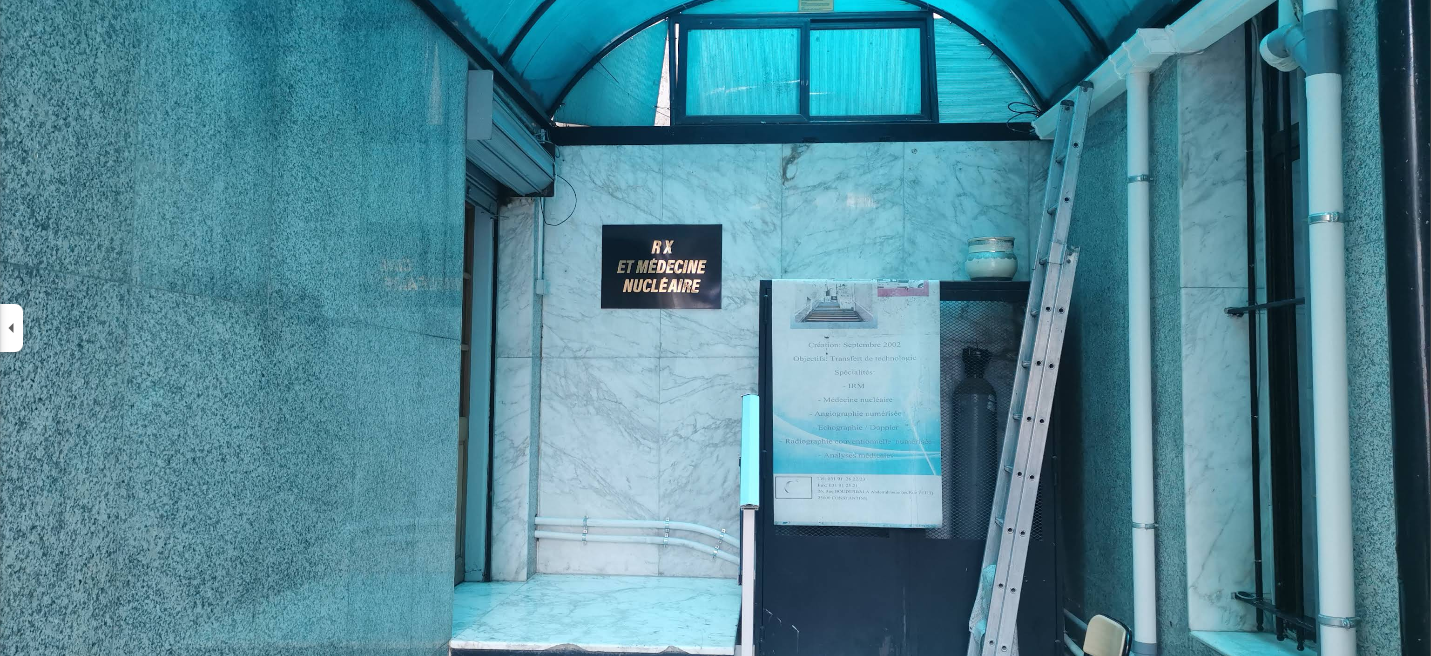
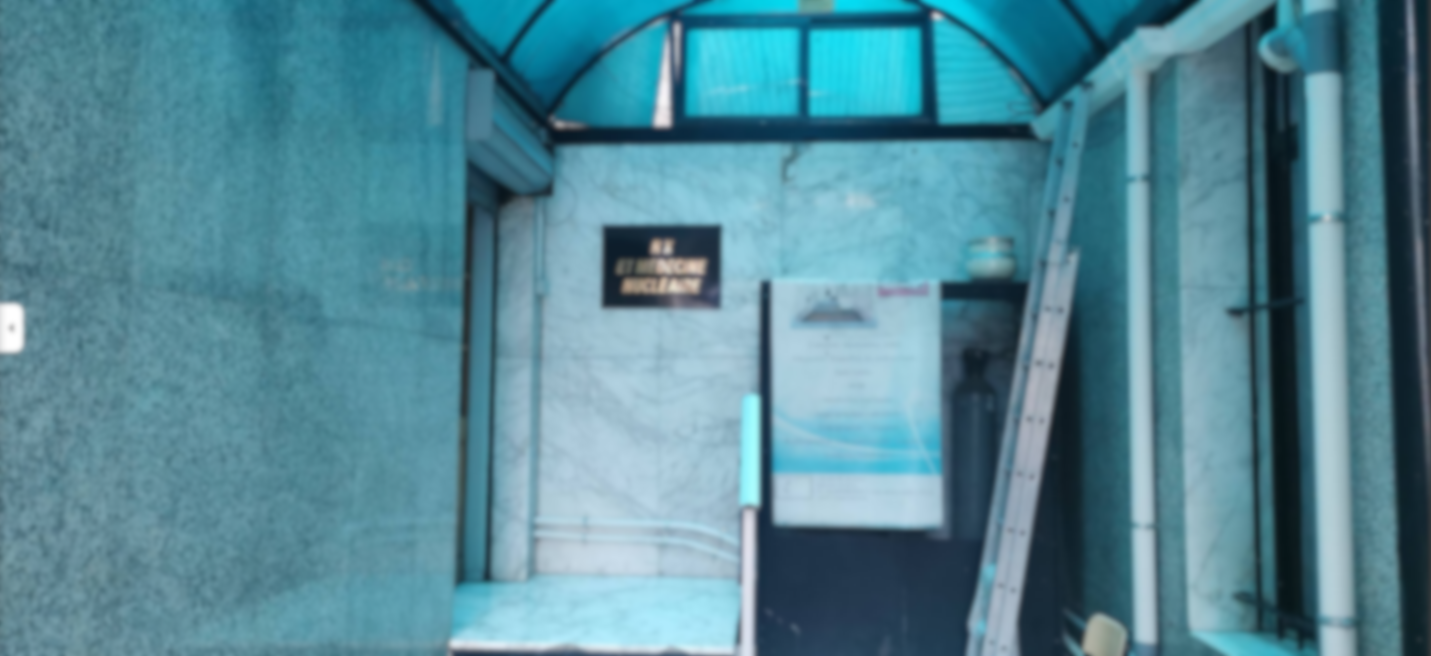
Fix French character encoding and improve nav layout

diff --git a/index.html b/index.html
@@ -22,14 +22,19 @@
         <nav id="nav" class="nav">
           <a href="#services">Services</a>
           <a href="#advantages">Avantages</a>
-          <a href="#departments">Départements</a>
+          <a href="#map">Map</a>
+          <a href="#departments">D&eacute;partements</a>
           <a href="#contact">Contact</a>
+          <a class="call-link" href="tel:0560586830">
+            <img src="phone.png" alt="" class="contact-icon" aria-hidden="true" />
+            <span>Appeler</span>
+          </a>
+          <a class="wa-link" href="https://wa.me/213560024123" target="_blank" rel="noopener noreferrer">
+            <img src="whatsupp.png" alt="" class="contact-icon" aria-hidden="true" />
+            <span>WhatsApp</span>
+          </a>
         </nav>
-        <div class="nav-cta">
-          <a class="call-link" href="tel:0560586830">📞 Appeler</a>
-          <a class="wa-link" href="https://wa.me/213560024123" target="_blank" rel="noopener noreferrer">🟢 WhatsApp</a>
-        </div>
-        <button id="menuBtn" class="menu-btn" aria-label="Open menu">☰</button>
+        <button id="menuBtn" class="menu-btn" aria-label="Open menu">&#9776;</button>
       </div>
     </header>
 
@@ -41,18 +46,18 @@
               <span class="hero-logo-mark">
                 <img src="clinic-logo.png" alt="Logo Centre EL HOCEINI" class="hero-logo" />
               </span>
-              <p>Votre santé, notre priorité</p>
+              <p>Votre sant&eacute;, notre priorit&eacute;</p>
             </div>
-            <h1 class="animate-rise-up delay-200">Centre de Diagnostic <span>EL HOCEINI</span></h1>
-            <p class="subtitle animate-rise-up delay-300">IRM, Scanner, Scintigraphie et Analyses Médicales à Constantine</p>
+            <h1 class="animate-rise-up delay-200">Centre de Diagnostic<br /><span>EL HOCEINI</span></h1>
+            <p class="subtitle animate-rise-up delay-300">IRM, Scanner, Scintigraphie et Analyses M&eacute;dicales &agrave; Constantine</p>
             <div class="hero-actions animate-rise-up delay-400">
               <a class="btn btn-green" href="#contact">Prendre Rendez-vous</a>
               <a class="btn btn-outline" href="tel:0560586830">Appeler Maintenant</a>
             </div>
             <div class="chips animate-rise-up delay-500">
-              <span>Équipements modernes</span>
-              <span>Résultats rapides</span>
-              <span>Équipe expérimentée</span>
+              <span>&Eacute;quipements modernes</span>
+              <span>R&eacute;sultats rapides</span>
+              <span>&Eacute;quipe exp&eacute;riment&eacute;e</span>
             </div>
           </div>
         </div>
@@ -61,12 +66,12 @@
       <section id="services" class="section services-section">
         <div class="container">
           <h2>Nos Services</h2>
-          <p class="section-sub">Des équipements de dernière génération pour des diagnostics précis et fiables</p>
+          <p class="section-sub">Des &eacute;quipements de derni&egrave;re g&eacute;n&eacute;ration pour des diagnostics pr&eacute;cis et fiables</p>
           <div class="cards four">
             <article class="card service-card">
               <div class="service-icon service-blue"><i class="fa-solid fa-brain"></i></div>
               <h3>IRM</h3>
-              <p>Cardiologie, Angio-IRM, Sein,<br />Cérébrale...</p>
+              <p>Cardiologie, Angio-IRM, Sein,<br />C&eacute;r&eacute;brale...</p>
             </article>
             <article class="card service-card">
               <div class="service-icon service-green"><i class="fa-solid fa-magnifying-glass"></i></div>
@@ -81,7 +86,7 @@
             <article class="card service-card">
               <div class="service-icon service-green"><i class="fa-solid fa-vial"></i></div>
               <h3>Analyses</h3>
-              <p>Hématologie, Biochimie,<br />Immunologie...</p>
+              <p>H&eacute;matologie, Biochimie,<br />Immunologie...</p>
             </article>
           </div>
         </div>
@@ -91,24 +96,24 @@
         <div class="container">
           <h2>Pourquoi Nous Choisir ?</h2>
           <p class="section-sub advantages-sub">
-            Votre santé est notre priorité. Nous combinons expertise et technologie pour vous
+            Votre sant&eacute; est notre priorit&eacute;. Nous combinons expertise et technologie pour vous
             offrir le meilleur service
           </p>
           <div class="cards three">
             <article class="card advantage-card">
               <div class="adv-icon"><i class="fa-regular fa-circle-check"></i></div>
-              <h3>Équipements modernes</h3>
-              <p>Technologies de pointe pour des diagnostics précis et fiables</p>
+              <h3>&Eacute;quipements modernes</h3>
+              <p>Technologies de pointe pour des diagnostics pr&eacute;cis et fiables</p>
             </article>
             <article class="card advantage-card">
               <div class="adv-icon"><i class="fa-solid fa-bolt"></i></div>
-              <h3>Résultats rapides et précis</h3>
-              <p>Délais optimisés sans compromis sur la qualité</p>
+              <h3>R&eacute;sultats rapides et pr&eacute;cis</h3>
+              <p>D&eacute;lais optimis&eacute;s sans compromis sur la qualit&eacute;</p>
             </article>
             <article class="card advantage-card">
               <div class="adv-icon"><i class="fa-solid fa-user-group"></i></div>
-              <h3>Équipe médicale expérimentée</h3>
-              <p>Professionnels qualifiés et dévoués à votre santé</p>
+              <h3>&Eacute;quipe m&eacute;dicale exp&eacute;riment&eacute;e</h3>
+              <p>Professionnels qualifi&eacute;s et d&eacute;vou&eacute;s &agrave; votre sant&eacute;</p>
             </article>
           </div>
         </div>
@@ -116,13 +121,13 @@
 
       <section id="departments" class="section departments-section">
         <div class="container">
-          <h2>Tous Nos Départements</h2>
-          <p class="section-sub departments-sub">Une gamme complète de services de diagnostic médical à votre disposition</p>
+          <h2>Tous Nos D&eacute;partements</h2>
+          <p class="section-sub departments-sub">Une gamme compl&egrave;te de services de diagnostic m&eacute;dical &agrave; votre disposition</p>
           <div class="tags departments-tags">
             <span>Radiologie Conventionnelle</span>
-            <span>Échographie & Doppler</span>
+            <span>&Eacute;chographie &amp; Doppler</span>
             <span>Panoramique Dentaire</span>
-            <span>Analyses Médicales Spécialisées</span>
+            <span>Analyses M&eacute;dicales Sp&eacute;cialis&eacute;es</span>
             <span>IRM Cardiologique</span>
             <span>Scanner 3D</span>
             <span>Scintigraphie Osseuse</span>
@@ -136,9 +141,9 @@
           <div class="cta-left">
             <div class="cta-icon"><i class="fa-regular fa-calendar"></i></div>
             <h2>Prenez rendez-vous facilement en 1 minute</h2>
-            <p class="cta-text">Notre équipe est à votre écoute pour vous accompagner dans votre parcours de diagnostic</p>
+            <p class="cta-text">Notre &eacute;quipe est &agrave; votre &eacute;coute pour vous accompagner dans votre parcours de diagnostic</p>
             <div class="cta-actions">
-              <a class="btn cta-btn cta-wa" href="https://wa.me/213560024123" target="_blank" rel="noopener noreferrer"><i class="fa-brands fa-whatsapp"></i> Réserver via WhatsApp</a>
+              <a class="btn cta-btn cta-wa" href="https://wa.me/213560024123" target="_blank" rel="noopener noreferrer"><i class="fa-brands fa-whatsapp"></i> R&eacute;server via WhatsApp</a>
               <a class="btn cta-btn cta-phone" href="tel:0560586830"><i class="fa-solid fa-phone"></i> 0560586830</a>
             </div>
           </div>
@@ -148,14 +153,14 @@
             <h3>Horaires d'ouverture</h3>
             <p>Lundi - Vendredi: 8h00 - 18h00</p>
             <p>Samedi: 8h00 - 14h00</p>
-            <p>Dimanche: Fermé</p>
+            <p>Dimanche: Ferm&eacute;</p>
             <div class="hours-divider"></div>
-            <p class="hours-note">Prise en charge rapide • Résultats sous 24-48h • Équipements de dernière génération</p>
+            <p class="hours-note">Prise en charge rapide &#8226; R&eacute;sultats sous 24-48h &#8226; &Eacute;quipements de derni&egrave;re g&eacute;n&eacute;ration</p>
           </div>
         </div>
       </section>
 
-      <section class="section location-section">
+      <section id="map" class="section location-section">
         <div class="container location">
           <div class="location-info">
             <div class="location-icon-box"><i class="fa-solid fa-location-dot"></i></div>
@@ -163,11 +168,11 @@
             <h4>Adresse</h4>
             <p>
               Centre de Diagnostic EL HOCEINI<br />
-              Constantine, Algérie
+              Constantine, Alg&eacute;rie
             </p>
             <h4>Contact</h4>
             <p>
-              Tél: 0560586830<br />
+              T&eacute;l: 0560586830<br />
               WhatsApp: +213 560 02 41 23
             </p>
             <a id="mapLink" class="btn map-btn" href="https://maps.app.goo.gl/z9vHBSnEwPYSLS7a8" target="_blank" rel="noopener noreferrer">
@@ -192,12 +197,18 @@
       <div class="container footer-grid">
         <div>
           <h3>Centre <span>EL HOCEINI</span></h3>
-          <p>Votre santé est notre priorité.</p>
+          <p>Votre sant&eacute; est notre priorit&eacute;.</p>
         </div>
         <div>
           <h4>Contact</h4>
-          <p>0560586830</p>
-          <p>WhatsApp disponible</p>
+          <p class="footer-contact-item">
+            <img src="phone.png" alt="" class="contact-icon" aria-hidden="true" />
+            <span>0560586830</span>
+          </p>
+          <p class="footer-contact-item">
+            <img src="whatsupp.png" alt="" class="contact-icon" aria-hidden="true" />
+            <span>+213 560 02 41 23</span>
+          </p>
         </div>
         <div>
           <h4>Horaires</h4>
@@ -205,8 +216,12 @@
           <p>Samedi: 8h00 - 14h00</p>
         </div>
       </div>
-      <p class="copy">© <span id="year"></span> Centre de Diagnostic EL HOCEINI</p>
+      <p class="copy">&copy; <span id="year"></span> Centre de Diagnostic EL HOCEINI</p>
     </footer>
+
+    <a class="back-to-top" href="#home" aria-label="Retour en haut">
+      <i class="fa-solid fa-arrow-up" aria-hidden="true"></i>
+    </a>
 
     <script src="script.js"></script>
   </body>

diff --git a/styles.css b/styles.css
@@ -32,8 +32,8 @@ body {
 }
 
 .nav-wrap {
-  display: grid;
-  grid-template-columns: auto 1fr auto;
+  display: flex;
+  justify-content: space-between;
   align-items: center;
   gap: 18px;
   min-height: 70px;
@@ -76,10 +76,44 @@ body {
 .nav {
   display: flex;
   justify-content: center;
-  gap: 34px;
+  align-items: center;
+  gap: 28px;
 }
 .nav a { text-decoration: none; color: rgba(255, 255, 255, 0.9); font-weight: 600; font-size: 0.96rem; }
 .nav a:hover { color: #ffffff; }
+.contact-icon {
+  width: 18px;
+  height: 18px;
+  display: inline-block;
+  object-fit: contain;
+  flex-shrink: 0;
+}
+.nav .call-link {
+  display: inline-flex;
+  align-items: center;
+  gap: 8px;
+  color: #ffffff;
+  font-weight: 700;
+  background: rgba(15, 23, 42, 0.28);
+  border: 1px solid rgba(255, 255, 255, 0.32);
+  border-radius: 10px;
+  padding: 8px 14px;
+  backdrop-filter: blur(4px);
+}
+.nav .wa-link {
+  display: inline-flex;
+  align-items: center;
+  gap: 8px;
+  background: var(--green);
+  color: #fff;
+  padding: 8px 18px;
+  border-radius: 6px;
+  font-weight: 600;
+  font-size: 0.95rem;
+}
+.nav .wa-link:hover {
+  background: var(--green-dark);
+}
 
 .nav-cta {
   display: flex;
@@ -121,7 +155,8 @@ body {
 
 .hero {
   position: relative;
-  min-height: calc(100vh - 70px);
+  min-height: 100vh;
+  min-height: 100svh;
   padding: 132px 0 48px;
   background-image: url('hero-background.png');
   background-size: cover;
@@ -702,12 +737,44 @@ h2 { font-size: clamp(1.7rem, 3.2vw, 2.4rem); margin: 0 0 10px; }
   gap: 20px;
 }
 .footer h3, .footer h4 { color: #fff; margin-top: 0; }
+.footer-contact-item {
+  display: flex;
+  align-items: center;
+  gap: 8px;
+}
 .copy {
   text-align: center;
   margin: 30px 0 0;
   padding: 14px;
   border-top: 1px solid #1e293b;
   color: #94a3b8;
+}
+
+.back-to-top {
+  position: fixed;
+  right: 18px;
+  bottom: 18px;
+  width: 48px;
+  height: 48px;
+  border-radius: 999px;
+  background: rgba(37, 99, 235, 0.92);
+  border: 1px solid rgba(255, 255, 255, 0.55);
+  box-shadow: 0 10px 20px rgba(15, 23, 42, 0.24);
+  display: inline-flex;
+  align-items: center;
+  justify-content: center;
+  z-index: 60;
+  text-decoration: none;
+}
+
+.back-to-top i {
+  font-size: 24px;
+  line-height: 1;
+  color: #ffffff;
+}
+
+.back-to-top:hover {
+  background: rgba(29, 78, 216, 0.96);
 }
 
 @media (max-width: 980px) {
@@ -743,7 +810,6 @@ h2 { font-size: clamp(1.7rem, 3.2vw, 2.4rem); margin: 0 0 10px; }
 
 @media (max-width: 760px) {
   .menu-btn { display: block; }
-  .nav-cta { display: none; }
   .nav-wrap {
     display: flex;
     justify-content: space-between;
@@ -784,6 +850,19 @@ h2 { font-size: clamp(1.7rem, 3.2vw, 2.4rem); margin: 0 0 10px; }
   .nav a:hover {
     color: var(--primary);
   }
+  .nav .call-link {
+    color: var(--primary);
+    background: #eff6ff;
+    border: 1px solid #bfdbfe;
+  }
+  .nav .wa-link {
+    background: var(--green);
+    color: #fff;
+    text-align: center;
+  }
+  .nav .wa-link:hover {
+    background: var(--green-dark);
+  }
   .nav.open { display: flex; }
   .cards.four { grid-template-columns: 1fr; }
   .chips { gap: 12px; }
@@ -794,5 +873,14 @@ h2 { font-size: clamp(1.7rem, 3.2vw, 2.4rem); margin: 0 0 10px; }
   }
   .advantage-card {
     min-height: auto;
+  }
+  .back-to-top {
+    width: 44px;
+    height: 44px;
+    right: 14px;
+    bottom: 14px;
+  }
+  .back-to-top i {
+    font-size: 22px;
   }
 }
